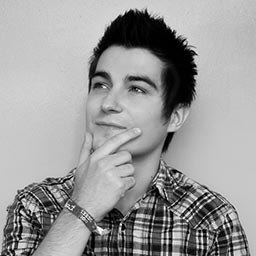
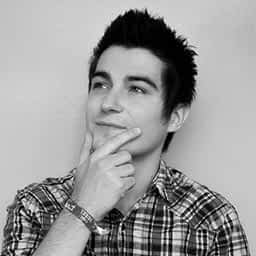
Relative image link and compress with mozjpg

diff --git a/_includes/head.html b/_includes/head.html
@@ -14,16 +14,6 @@
   <!-- Styles -->
   <link rel="stylesheet" href="{{ "/css/main.css" | prepend: site.baseurl }}">
 
-  <!-- Typekit async -->
-  <script type="text/javascript">
-  // (function(d) {
-  //   var config = {
-  //     kitId: 'fya5ecf',
-  //     scriptTimeout: 3000
-  //   },
-  //   h=d.documentElement,t=setTimeout(function(){h.className=h.className.replace(/\bwf-loading\b/g,"")+" wf-inactive";},config.scriptTimeout),tk=d.createElement("script"),f=false,s=d.getElementsByTagName("script")[0],a;h.className+=" wf-loading";tk.src='//use.typekit.net/'+config.kitId+'.js';tk.async=true;tk.onload=tk.onreadystatechange=function(){a=this.readyState;if(f||a&&a!="complete"&&a!="loaded")return;f=true;clearTimeout(t);try{Typekit.load(config)}catch(e){}};s.parentNode.insertBefore(tk,s)
-  // })(document);
-  </script>
-  <script type="text/javascript" src="//use.typekit.net/fya5ecf.js"></script>
-  <script type="text/javascript">try{Typekit.load();}catch(e){}</script>
+  <script async type="text/javascript" src="//use.typekit.net/fya5ecf.js"></script>
+  <script async type="text/javascript">try{Typekit.load();}catch(e){}</script>
 </head>

diff --git a/_includes/sidebar.html b/_includes/sidebar.html
@@ -1,7 +1,7 @@
 <aside class="sidebar">
   <div class="profile">
     <a href="/">
-      <img class="profile__img" src="{{ '/images/me.jpg' | prepend: site.url }}">
+      <img class="profile__img" src="/images/me.jpg">
     </a>
     <div class="profile__detail">
       Creative director and front&hyphen;end developer <a href="http://bigbitecreative.com">@bigbitecreative</a>
@@ -26,6 +26,5 @@
   </nav>
 
   <script async type="text/javascript" src="//cdn.carbonads.com/carbon.js?zoneid=1673&serve=C6AILKT&placement=markgoodyearcom" id="_carbonads_js"></script>
-
 
 </aside>
